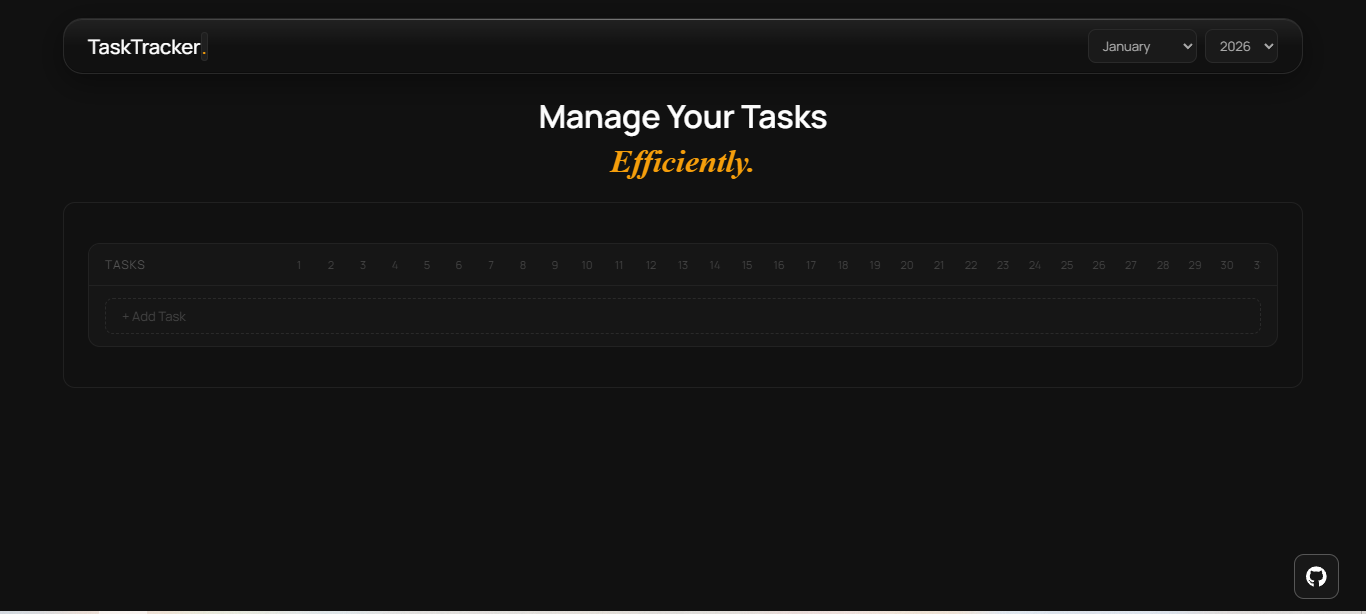
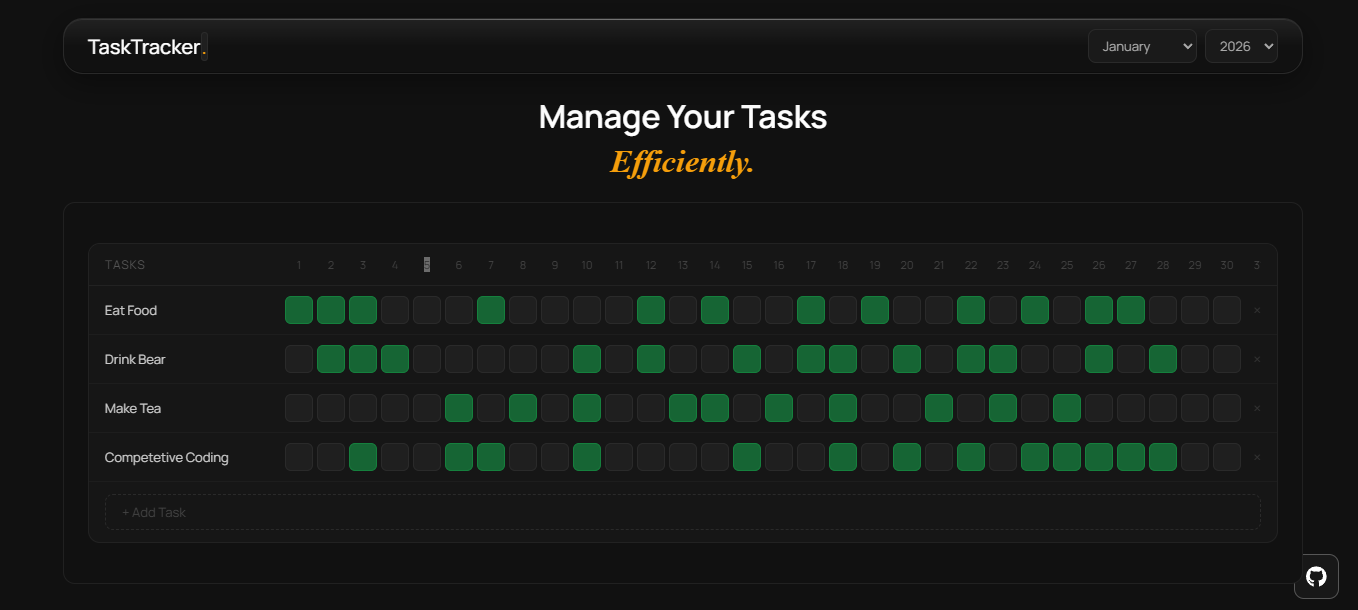
link-formatted

diff --git a/hiteshsuthar/app/Components/Projects.tsx b/hiteshsuthar/app/Components/Projects.tsx
@@ -1,23 +1,16 @@
-import bg1 from "@/public/Project/ProjectSection-BGS/Im1.png";
-import bg2 from "@/public/Project/ProjectSection-BGS/Im2.png";
-import bg3 from "@/public/Project/ProjectSection-BGS/Im3.png";
-import bg4 from "@/public/Project/ProjectSection-BGS/image.png";
-import flyyped from "@/public/Project/ProjectImages/image.png";
-import taskTraket from "@/public/Project/ProjectImages/image copy.png";
-import shushiman from "@/public/Project/ProjectImages/image copy 2.png";
-import softtech from "@/public/Project/ProjectImages/image copy 3.png";
-import ProjectCard from "./ProjectCard";
+import { projectBackgrounds, projectImages } from "@/lib/assest/project";
+import { StaticImageData } from "next/image";
 import { ArrowUpRight } from "lucide-react";
-
+import ProjectCard from "./ProjectCard";
 interface ProjectProp {
   id: number;
   name: string;
   type: string;
   description: string;
   isActive: boolean;
-  backgroundImage: any;
-  projectImage: any;
-  stack: any;
+  backgroundImage: StaticImageData;
+  projectImage: StaticImageData;
+  stack: React.ReactNode[];
   link: string;
 }
 const Project: ProjectProp[] = [
@@ -28,8 +21,8 @@ const Project: ProjectProp[] = [
     description:
       "Fyyped is a meme culture hub where internet users discover and sharethe latest memes, viral edits, and popular formats — all in one place",
     isActive: false,
-    backgroundImage: bg4,
-    projectImage: flyyped,
+    backgroundImage: projectBackgrounds.bg4,
+    projectImage: projectImages.flyyped,
     stack: [
       <svg
         width="18"
@@ -123,9 +116,22 @@ const Project: ProjectProp[] = [
     description:
       "A modern productivity app that helps users manage tasks and goals through a GitHub-style visual tracking system.",
     isActive: true,
-    backgroundImage: bg2,
-    projectImage: taskTraket,
+    backgroundImage: projectBackgrounds.bg1,
+    projectImage: projectImages.taskTracker,
     stack: [
+      <svg
+        width="18"
+        height="18"
+        viewBox="0 0 18 18"
+        fill="none"
+        xmlns="http://www.w3.org/2000/svg"
+      >
+        <path d="M18 0H0V18H18V0Z" fill="#F7DF1E" />
+        <path
+          d="M12.0915 14.0626C12.4541 14.6546 12.9258 15.0898 13.7601 15.0898C14.4609 15.0898 14.9086 14.7395 14.9086 14.2555C14.9086 13.6755 14.4486 13.47 13.6772 13.1326L13.2544 12.9512C12.0338 12.4312 11.2229 11.7798 11.2229 10.4026C11.2229 9.13405 12.1895 8.16833 13.7001 8.16833C14.7755 8.16833 15.5486 8.54262 16.1058 9.52262L14.7886 10.3683C14.4986 9.84834 14.1858 9.64348 13.7001 9.64348C13.2046 9.64348 12.8906 9.95776 12.8906 10.3683C12.8906 10.8758 13.2049 11.0812 13.9306 11.3955L14.3535 11.5766C15.7906 12.1929 16.6021 12.8212 16.6021 14.2338C16.6021 15.7566 15.4058 16.5909 13.7992 16.5909C12.2284 16.5909 11.2135 15.8423 10.7169 14.8612L12.0915 14.0626ZM6.11636 14.2092C6.38207 14.6806 6.62379 15.0792 7.20493 15.0792C7.76064 15.0792 8.11122 14.8618 8.11122 14.0163V8.26491H9.80264V14.0392C9.80264 15.7906 8.77579 16.5878 7.27693 16.5878C5.92264 16.5878 5.13836 15.8869 4.7395 15.0428L6.11636 14.2092Z"
+          fill="black"
+        />
+      </svg>,
       <svg
         width="18"
         height="18"
@@ -171,26 +177,6 @@ const Project: ProjectProp[] = [
           d="M9 3.6001C6.59993 3.6001 5.09996 4.7998 4.49989 7.19897C5.4 5.99927 6.45002 5.54955 7.64994 5.84936C8.33465 6.02043 8.82398 6.51719 9.36576 7.06684C10.2481 7.96223 11.2693 8.99851 13.5001 8.99851C15.9 8.99851 17.4002 7.79881 18 5.39942C17.1001 6.59912 16.0501 7.04906 14.8499 6.74925C14.1655 6.57818 13.6761 6.08142 13.1344 5.53177C12.252 4.63638 11.2306 3.6001 9 3.6001V3.6001ZM4.49989 8.99851C2.10004 8.99851 0.59985 10.1982 0 12.5976C0.899888 11.3979 1.94991 10.948 3.15006 11.248C3.83454 11.4193 4.32387 11.9158 4.86565 12.4653C5.74798 13.3606 6.76941 14.3972 9 14.3972C11.4001 14.3972 12.9 13.1975 13.5001 10.7981C12.6 11.9978 11.55 12.4477 10.3501 12.1477C9.66535 11.9768 9.17602 11.4798 8.63424 10.9304C7.75191 10.035 6.7307 8.99851 4.49989 8.99851V8.99851Z"
           fill="#06B6D4"
         />
-      </svg>,
-      <svg
-        width="18"
-        height="18"
-        viewBox="0 0 18 18"
-        fill="none"
-        xmlns="http://www.w3.org/2000/svg"
-      >
-        <g clipPath="url(#clip0_867_15051)">
-          <path d="M0 0H18V18H0V0Z" fill="#017ACB" />
-          <path
-            d="M8.64285 6.66584H9.50629V8.15646H7.17191V14.7883L7.11003 14.8052C7.02566 14.8277 5.91472 14.8277 5.67565 14.8024L5.4844 14.7855V8.15646H3.15002V6.66584L3.88971 6.6574C4.29471 6.65178 5.33534 6.65178 6.20159 6.6574C7.06784 6.66303 8.16472 6.66584 8.64285 6.66584ZM15.2325 14.0852C14.8894 14.448 14.521 14.6505 13.9079 14.8165C13.6407 14.8896 13.5957 14.8924 12.9938 14.8896C12.3919 14.8868 12.3441 14.8868 12.0516 14.8108C11.295 14.6168 10.6847 14.2371 10.2685 13.6999C10.1503 13.548 9.95629 13.233 9.95629 13.1937C9.95629 13.1824 9.98441 13.1571 10.021 13.1402C10.0575 13.1233 10.1335 13.0755 10.1953 13.039C10.2572 13.0024 10.3697 12.9349 10.4457 12.8955C10.5216 12.8562 10.741 12.7268 10.9322 12.6115C11.1235 12.4962 11.2979 12.4033 11.3175 12.4033C11.3372 12.4033 11.3738 12.4427 11.4019 12.4905C11.5707 12.7746 11.9644 13.1374 12.2429 13.2612C12.4144 13.3343 12.7941 13.4158 12.9769 13.4158C13.1457 13.4158 13.455 13.3427 13.621 13.2668C13.7982 13.1852 13.8882 13.1037 13.995 12.9405C14.0682 12.8252 14.0766 12.7943 14.0738 12.5749C14.0738 12.3724 14.0625 12.3162 14.0063 12.2233C13.8488 11.9646 13.635 11.8296 12.7688 11.4471C11.8744 11.0505 11.4722 10.8143 11.146 10.4965C10.9041 10.2602 10.8563 10.1955 10.7044 9.90021C10.5075 9.52053 10.4822 9.39678 10.4794 8.83146C10.4766 8.4349 10.485 8.30553 10.5272 8.17053C10.5863 7.96803 10.7775 7.57709 10.8647 7.47865C11.0447 7.26771 11.1094 7.20303 11.236 7.09896C11.6185 6.78396 12.2147 6.57584 12.7857 6.55615C12.8504 6.55615 13.0641 6.5674 13.2638 6.58146C13.8375 6.62928 14.2285 6.7699 14.6054 7.07084C14.8894 7.29584 15.3197 7.82459 15.2775 7.8949C15.2494 7.93709 14.1272 8.68521 14.0541 8.70771C14.0091 8.72178 13.9782 8.7049 13.9163 8.63178C13.5338 8.17334 13.3791 8.0749 13.0079 8.0524C12.7435 8.03553 12.6029 8.06646 12.4257 8.18459C12.24 8.30834 12.15 8.49678 12.15 8.75834C12.1529 9.14084 12.2991 9.32084 12.8391 9.58803C13.1879 9.75959 13.486 9.90021 13.5085 9.90021C13.5422 9.90021 14.265 10.2602 14.4535 10.3727C15.331 10.8874 15.6882 11.4162 15.781 12.3274C15.8485 13.0137 15.6544 13.6408 15.2325 14.0852Z"
-            fill="white"
-          />
-        </g>
-        <defs>
-          <clipPath id="clip0_867_15051">
-            <rect width="18" height="18" fill="white" />
-          </clipPath>
-        </defs>
       </svg>,
     ],
     link: "https://tasktraker-seven.vercel.app/",
@@ -202,43 +188,9 @@ const Project: ProjectProp[] = [
     description:
       "A redesigned telecom startup website with modern visuals, smooth interactions, and an improved user experience.",
     isActive: true,
-    backgroundImage: bg3,
-    projectImage: softtech,
+    backgroundImage: projectBackgrounds.bg3,
+    projectImage: projectImages.softtech,
     stack: [
-      <svg
-        width="18"
-        height="18"
-        viewBox="0 0 28 28"
-        fill="none"
-        xmlns="http://www.w3.org/2000/svg"
-      >
-        <g clipPath="url(#clip0_2902_2)">
-          <path
-            d="M14.0857 16.4686C15.4491 16.4686 16.5543 15.3634 16.5543 14C16.5543 12.6367 15.4491 11.5315 14.0857 11.5315C12.7224 11.5315 11.6172 12.6367 11.6172 14C11.6172 15.3634 12.7224 16.4686 14.0857 16.4686Z"
-            fill="#61DAFB"
-          />
-          <path
-            d="M14.0857 19.0574C21.4012 19.0574 27.3315 16.7931 27.3315 13.9999C27.3315 11.2067 21.4012 8.94238 14.0857 8.94238C6.77021 8.94238 0.839844 11.2067 0.839844 13.9999C0.839844 16.7931 6.77021 19.0574 14.0857 19.0574Z"
-            stroke="#61DAFB"
-            strokeWidth="1.4"
-          />
-          <path
-            d="M9.70584 16.5288C13.3636 22.8641 18.2897 26.8678 20.7087 25.4712C23.1277 24.0747 22.1234 17.8066 18.4657 11.4712C14.808 5.13585 9.88181 1.13216 7.46284 2.52875C5.04387 3.92535 6.0481 10.1934 9.70584 16.5288Z"
-            stroke="#61DAFB"
-            strokeWidth="1.4"
-          />
-          <path
-            d="M9.70608 11.4714C6.04834 17.8067 5.04412 24.0748 7.46308 25.4714C9.88205 26.8679 14.8082 22.8643 18.4659 16.5289C22.1237 10.1935 23.1279 3.92546 20.7089 2.52886C18.29 1.13227 13.3638 5.13596 9.70608 11.4714Z"
-            stroke="#61DAFB"
-            strokeWidth="1.4"
-          />
-        </g>
-        <defs>
-          <clipPath id="clip0_2902_2">
-            <rect width="28" height="28" fill="white" />
-          </clipPath>
-        </defs>
-      </svg>,
       <svg
         width="18"
         height="18"
@@ -246,11 +198,49 @@ const Project: ProjectProp[] = [
         fill="none"
         xmlns="http://www.w3.org/2000/svg"
       >
-        <path
-          d="M9 3.6001C6.59993 3.6001 5.09996 4.7998 4.49989 7.19897C5.4 5.99927 6.45002 5.54955 7.64994 5.84936C8.33465 6.02043 8.82398 6.51719 9.36576 7.06684C10.2481 7.96223 11.2693 8.99851 13.5001 8.99851C15.9 8.99851 17.4002 7.79881 18 5.39942C17.1001 6.59912 16.0501 7.04906 14.8499 6.74925C14.1655 6.57818 13.6761 6.08142 13.1344 5.53177C12.252 4.63638 11.2306 3.6001 9 3.6001V3.6001ZM4.49989 8.99851C2.10004 8.99851 0.59985 10.1982 0 12.5976C0.899888 11.3979 1.94991 10.948 3.15006 11.248C3.83454 11.4193 4.32387 11.9158 4.86565 12.4653C5.74798 13.3606 6.76941 14.3972 9 14.3972C11.4001 14.3972 12.9 13.1975 13.5001 10.7981C12.6 11.9978 11.55 12.4477 10.3501 12.1477C9.66535 11.9768 9.17602 11.4798 8.63424 10.9304C7.75191 10.035 6.7307 8.99851 4.49989 8.99851V8.99851Z"
-          fill="#06B6D4"
-        />
+        <g clipPath="url(#clip0_867_14856)">
+          <path
+            d="M9 17.9998C13.9706 17.9998 18 13.9703 18 8.99976C18 4.02919 13.9706 -0.000244141 9 -0.000244141C4.02944 -0.000244141 0 4.02919 0 8.99976C0 13.9703 4.02944 17.9998 9 17.9998Z"
+            fill="black"
+          />
+          <path
+            d="M14.9508 15.7519L6.91423 5.3999H5.40002V12.5969H6.61138V6.93825L13.9999 16.4844C14.3333 16.2613 14.6509 16.0164 14.9508 15.7519Z"
+            fill="url(#paint0_linear_867_14856)"
+          />
+          <path
+            d="M12.7 5.3999H11.5V12.5999H12.7V5.3999Z"
+            fill="url(#paint1_linear_867_14856)"
+          />
+        </g>
+        <defs>
+          <linearGradient
+            id="paint0_linear_867_14856"
+            x1="10.9"
+            y1="11.6499"
+            x2="14.45"
+            y2="16.0499"
+            gradientUnits="userSpaceOnUse"
+          >
+            <stop stopColor="white" />
+            <stop offset="1" stopColor="white" stopOpacity="0" />
+          </linearGradient>
+          <linearGradient
+            id="paint1_linear_867_14856"
+            x1="12.1"
+            y1="5.3999"
+            x2="12.0799"
+            y2="10.6874"
+            gradientUnits="userSpaceOnUse"
+          >
+            <stop stopColor="white" />
+            <stop offset="1" stopColor="white" stopOpacity="0" />
+          </linearGradient>
+          <clipPath id="clip0_867_14856">
+            <rect width="18" height="18" fill="white" />
+          </clipPath>
+        </defs>
       </svg>,
+      ,
       <svg
         width="18"
         height="18"
@@ -271,6 +261,18 @@ const Project: ProjectProp[] = [
           </clipPath>
         </defs>
       </svg>,
+      <svg
+        width="18"
+        height="18"
+        viewBox="0 0 18 18"
+        fill="none"
+        xmlns="http://www.w3.org/2000/svg"
+      >
+        <path
+          d="M9 3.6001C6.59993 3.6001 5.09996 4.7998 4.49989 7.19897C5.4 5.99927 6.45002 5.54955 7.64994 5.84936C8.33465 6.02043 8.82398 6.51719 9.36576 7.06684C10.2481 7.96223 11.2693 8.99851 13.5001 8.99851C15.9 8.99851 17.4002 7.79881 18 5.39942C17.1001 6.59912 16.0501 7.04906 14.8499 6.74925C14.1655 6.57818 13.6761 6.08142 13.1344 5.53177C12.252 4.63638 11.2306 3.6001 9 3.6001V3.6001ZM4.49989 8.99851C2.10004 8.99851 0.59985 10.1982 0 12.5976C0.899888 11.3979 1.94991 10.948 3.15006 11.248C3.83454 11.4193 4.32387 11.9158 4.86565 12.4653C5.74798 13.3606 6.76941 14.3972 9 14.3972C11.4001 14.3972 12.9 13.1975 13.5001 10.7981C12.6 11.9978 11.55 12.4477 10.3501 12.1477C9.66535 11.9768 9.17602 11.4798 8.63424 10.9304C7.75191 10.035 6.7307 8.99851 4.49989 8.99851V8.99851Z"
+          fill="#06B6D4"
+        />
+      </svg>,
     ],
     link: "https://softtechsolution-rewamp.vercel.app",
   },
@@ -281,8 +283,8 @@ const Project: ProjectProp[] = [
     description:
       "A Japanese-theme sushi restaurant website featuring clean visuals, smooth animations, and a fully responsive design.",
     isActive: true,
-    backgroundImage: bg1,
-    projectImage: shushiman,
+    backgroundImage: projectBackgrounds.bg2,
+    projectImage: projectImages.shushiman,
     stack: [
       <svg
         width="18"

diff --git a/hiteshsuthar/app/page.tsx b/hiteshsuthar/app/page.tsx
@@ -1,38 +1,28 @@
-"use client";
-import About from "./Components/About";
-import BioComponent from "./Components/BioComponent";
-import Divider from "./Components/Divider";
-import Navbar from "./Components/HeroPage/Navbar";
-import Link from "./Components/Link";
-import Profile from "./Components/Profile/Profile";
-import GithubContribution from "@/app/Components/Profile/GithubContribution";
-import Stack from "@/app/Components/Stack";
-import Experience from "@/app/Components/Experience";
-import Projects from "./Components/Projects";
+import Page from "@/lib/assest/page";
 
 export default function Home() {
   return (
     <>
       <div className="flex flex-col flex-1 items-center justify-center font-sans dark:bg-[#09090B] mt-2">
-        <Navbar />
+        <Page.Navbar />
         {/* Block */}
         <div className="dotted-background p-12">
           <p className="font-mono bg-white">
             Designer Soul. <br /> Developer Brain.
           </p>
         </div>
-        <Profile />
-        <Divider />
-        <BioComponent />
-        <Divider />
-        <About />
-        <Link />
-        <GithubContribution />
-        <Stack />
-        <Divider />
-        <Experience />
-        <Divider />
-        <Projects />
+        <Page.Profile />
+        <Page.Divider />
+        <Page.BioComponent />
+        <Page.Divider />
+        <Page.About />
+        <Page.Link />
+        <Page.GithubContribution />
+        <Page.Stack />
+        <Page.Divider />
+        <Page.Experience />
+        <Page.Divider />
+        <Page.Projects />
       </div>
     </>
   );

diff --git a/hiteshsuthar/lib/assest/page.tsx b/hiteshsuthar/lib/assest/page.tsx
@@ -1,0 +1,25 @@
+import About from "@/app/Components/About";
+import BioComponent from "@/app/Components/BioComponent";
+import Divider from "@/app/Components/Divider";
+import Navbar from "@/app/Components/HeroPage/Navbar";
+import Link from "@/app/Components/Link";
+import Profile from "@/app/Components/Profile/Profile";
+import GithubContribution from "@/app/Components/Profile/GithubContribution";
+import Stack from "@/app/Components/Stack";
+import Experience from "@/app/Components/Experience";
+import Projects from "@/app/Components/Projects";
+
+const Page = {
+  About,
+  BioComponent,
+  Divider,
+  Navbar,
+  Link,
+  Profile,
+  GithubContribution,
+  Stack,
+  Experience,
+  Projects,
+};
+
+export default Page;

diff --git a/hiteshsuthar/lib/assest/project.tsx b/hiteshsuthar/lib/assest/project.tsx
@@ -1,0 +1,23 @@
+import bg1 from "@/public/Project/ProjectSection-BGS/Im1.png";
+import bg2 from "@/public/Project/ProjectSection-BGS/Im2.png";
+import bg3 from "@/public/Project/ProjectSection-BGS/Im3.png";
+import bg4 from "@/public/Project/ProjectSection-BGS/image.png";
+
+import flyyped from "@/public/Project/ProjectImages/image.png";
+import taskTracker from "@/public/Project/ProjectImages/image copy.png";
+import shushiman from "@/public/Project/ProjectImages/image copy 2.png";
+import softtech from "@/public/Project/ProjectImages/image copy 3.png";
+
+export const projectBackgrounds = {
+  bg1,
+  bg2,
+  bg3,
+  bg4,
+};
+
+export const projectImages = {
+  flyyped,
+  taskTracker,
+  shushiman,
+  softtech,
+};

diff --git a/hiteshsuthar/app/Components/ProjectCard.tsx b/hiteshsuthar/app/Components/ProjectCard.tsx
@@ -1,6 +1,7 @@
 import Image from "next/image";
 import { ArrowUpRight, Link2 } from "lucide-react";
 import Link from "next/link";
+import { StaticImageData } from "next/image";
 
 const ProjectCard = ({
   name,
@@ -16,9 +17,9 @@ const ProjectCard = ({
   type: string;
   description: string;
   isActive: boolean;
-  bgImage: any;
-  projectImage: any;
-  stack: unknown;
+  bgImage: StaticImageData;
+  projectImage: StaticImageData;
+  stack: React.ReactNode[];
   link: string;
 }) => {
   const active = isActive;
